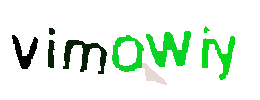
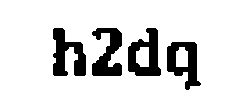
update algo and frame for przeklej

Changed region(s): [[0.028, 0.27, 0.924, 0.9], [0.784, 0.27, 0.812, 0.33]]

diff --git a/JDownloader 2.0/tools/Windows/kscaptcha/ocr.js b/JDownloader 2.0/tools/Windows/kscaptcha/ocr.js
@@ -2,116 +2,188 @@ var Tesseract = require('tesseract.js');
 var Jimp = require('jimp');
 var fs = require('fs');
 
+var what2Scan = process.argv[2] || "keep2share.cc"; //Start parameter
 var white = Jimp.rgbaToInt(255, 255, 255, 255);
-var colorBuffer = {};
-var bandColors = [];
-var borderColors = {};
-console.log("Running");
-getText('input.gif', function(content) {
-    console.log(content);
-    fs.writeFile('result.txt', content["text"], (err) => {  
-        if (err) throw err;
-		
-		fs.writeFile('log.txt', JSON.stringify(content), (err) => {  
-			process.exit();
-		});
+var black = Jimp.rgbaToInt(0, 0, 0, 255);
+
+console.log("Running ->", what2Scan);
+
+if (what2Scan == "keep2share.cc") {
+    getKeep2shareSText('input.gif', function (content) {
+        fs.writeFile('result.txt', content["text"], (err) => {
+            if (err) throw err;
+
+            fs.writeFile('log.txt', JSON.stringify(content), (err) => {
+                process.exit();
+            });
+        });
+
+    })
+} else  if (what2Scan == "przeklej.org") {
+    getPrzeklejText('xFQIX.jpg', function (content) {
+        fs.writeFile('result.txt', content["text"], (err) => {
+            if (err) throw err;
+
+            fs.writeFile('log.txt', JSON.stringify(content), (err) => {
+                process.exit();
+            });
+        });
+
+    })
+} else {
+    console.log("No function found for: ", what2Scan);
+}
+
+function getPrzeklejText(file, callback) {
+    Jimp.read(file).then(image => {
+        image.scan(0, 0, image.bitmap.width, image.bitmap.height, function (x, y, idx) {
+            var color = image.getPixelColor(x, y);
+            var rgbColor = Jimp.intToRGBA(color);
+            if(rgbColor["r"]>50) {
+                image.setPixelColor(white, x, y);
+            }
+            if(x==0||y==0||x==image.bitmap.width-1||y==image.bitmap.height-1) {
+                image.setPixelColor(white, x, y);
+            }
+            if (x == image.bitmap.width - 1 && y == image.bitmap.height - 1) { //Scan1 finished
+                image.resize( 250, Jimp.AUTO );
+                changeAllPresentPixelsToBlack(image, function (image) {
+                    removeSpikes(image, 3, function (image) {
+                        fillGaps(image, 1, function (image) {
+                            image.write('temp.jpg', function () {
+                                fs.readFile('temp.jpg', function (err, data) {
+                                    // Tesseract.recognize(data).then(function (result) {
+                                    //     var text = result["text"].replace(/\W/g, '');
+                                    //     var confidence = result["confidence"];
+                                    //     callback({ host : what2Scan, text: text, confidence: confidence });
+                                    // })
+                                });
+                            });
+                        });
+                    });
+                });
+            }
+        });
+    }).catch(err => {
+        console.log(err);
+        // Handle an exception.
     });
-    
-})
+} 
 
-function getText(file, callback) {
-    Jimp.read(file)
-        .then(image => {
-            image.scan(0, 0, image.bitmap.width, image.bitmap.height, function (x, y, idx) {
-                var index = image.getPixelColor(x, y);
-                if (!colorBuffer[index]) {
-                    colorBuffer[index] = 1;
-                } else {
-                    colorBuffer[index]++;
+function getKeep2shareSText(file, callback) {
+    var colorBuffer = {};
+    var bandColors = [];
+    var borderColors = {};
+    Jimp.read(file).then(image => {
+        image.scan(0, 0, image.bitmap.width, image.bitmap.height, function (x, y, idx) {
+            var index = image.getPixelColor(x, y);
+            if (!colorBuffer[index]) {
+                colorBuffer[index] = 1;
+            } else {
+                colorBuffer[index]++;
+            }
+
+            //Take all border colors to remove them from the image (Removing lines)
+            if (index != white && (y < 2 || image.bitmap.height - y < 10)) {
+                borderColors[index] = true;
+            }
+
+            if (x == image.bitmap.width - 1 && y == image.bitmap.height - 1) { //Scan1 finished
+                for (var k in borderColors) {
+                    bandColors.push({ "color": k });
                 }
-
-                //Take all border colors to remove them from the image (Removing lines)
-                if (index != white && (y < 2 || image.bitmap.height - y < 10)) {
-                    borderColors[index] = true;
-                }
-
-                if (x == image.bitmap.width - 1 && y == image.bitmap.height - 1) { //Scan1 finished
-                    for (var k in borderColors) {
-                        bandColors.push({ "color": k });
+                for (var i in colorBuffer) {
+                    if (colorBuffer[i] < 100) { //Remove all colors witch are not very present in the img (<100 pixels in the image)
+                        bandColors.push({ "color": i });
                     }
-                    for (var i in colorBuffer) {
-                        if (colorBuffer[i] < 100) { //Remove all colors witch are not very present in the img (<100 pixels in the image)
-                            bandColors.push({ "color": i });
+                }
+
+                image.scan(0, 0, image.bitmap.width, image.bitmap.height, function (x, y, idx) {
+                    var color = image.getPixelColor(x, y);
+                    var rgbColor = Jimp.intToRGBA(color);
+                    if(rgbColor["r"] > 200 && rgbColor["g"] > 200 && rgbColor["b"] > 200) { //Very light gray ->remove
+                        image.setPixelColor(white, x, y);
+                    }
+
+                    for (var k in bandColors) {
+                        var clEntry = bandColors[k];
+
+                        if (color == clEntry["color"]) {
+                            image.setPixelColor(white, x, y);
+                            break;
                         }
                     }
 
-                    image.scan(0, 0, image.bitmap.width, image.bitmap.height, function (x, y, idx) {
-                        var color = image.getPixelColor(x, y);
-                        for (var k in bandColors) {
-                            var clEntry = bandColors[k];
-
-                            if (color == clEntry["color"]) {
-                                image.setPixelColor(white, x, y);
-                            }
-                        }
-
-                        if (x == image.bitmap.width - 1 && y == image.bitmap.height - 1) {
-                            fillGaps(image, function (image) {
-                                fillGaps(image, function (image) {
-                                    fillGaps(image, function (image) {
-                                        resharp(image, function (image) {
-                                            resharp(image, function (image) {
-                                                image.write('temp.jpg', function () {
-                                                    fs.readFile('temp.jpg', function (err, data) {
-                                                        Tesseract.recognize(data).then(function (result) {
-                                                            var text = result["text"].replace(/\W/g, '');
-                                                            var confidence = result["confidence"];
-                                                            callback({text : text, confidence : confidence});
-                                                        })
-                                                    });
-                                                });
-                                            });
+                    if (x == image.bitmap.width - 1 && y == image.bitmap.height - 1) {
+                        fillGaps(image, 3, function (image) {
+                            thinOut(image, 2, function (image) {
+                                changeAllPresentPixelsToBlack(image, function (image) {
+                                    image.write('temp.jpg', function () {
+                                        fs.readFile('temp.jpg', function (err, data) {
+                                            Tesseract.recognize(data).then(function (result) {
+                                                var text = result["text"].replace(/\W/g, '');
+                                                var confidence = result["confidence"];
+                                                callback({ host : what2Scan, text: text, confidence: confidence });
+                                            })
                                         });
                                     });
                                 });
-                            })
-                        }
-                    });
-                }
-            });
-
-        })
-        .catch(err => {
-            console.log(err);
-            // Handle an exception.
+                            });    
+                        })
+                    }
+                });
+            }
         });
-
-    function fillGaps(image, callback) {
-        new Jimp(image.bitmap.width, image.bitmap.height, white, (err, newImage) => {
-            image.scan(0, 0, image.bitmap.width, image.bitmap.height, function (x, y, idx) {
-                var color = image.getPixelColor(x, y);
-                if (color != white) {
-                    newImage.setPixelColor(color, x - 1, y - 1);
-                    newImage.setPixelColor(color, x, y - 1);
-                    newImage.setPixelColor(color, x, y - 1);
-
-                    newImage.setPixelColor(color, x - 1, y + 1);
-                    newImage.setPixelColor(color, x, y + 1);
-                    newImage.setPixelColor(color, x + 1, y + 1);
-
-                    newImage.setPixelColor(color, x, y);
-                    newImage.setPixelColor(color, x - 1, y);
-                    newImage.setPixelColor(color, x + 1, y);
-                }
-                if (x == image.bitmap.width - 1 && y == image.bitmap.height - 1) {
-                    callback(newImage);
-                }
-            })
-        });
-    }
+    }).catch(err => {
+        console.log(err);
+        // Handle an exception.
+    });
 }
 
-function resharp(image, callback) {
+function changeAllPresentPixelsToBlack(image, callback) {
+    image.scan(0, 0, image.bitmap.width, image.bitmap.height, function (x, y, idx) {
+        var color = image.getPixelColor(x, y);
+        if(color != white) {
+            image.setPixelColor(black, x, y);
+        }
+        
+        if (x == image.bitmap.width - 1 && y == image.bitmap.height - 1) {
+            callback(image);
+        }
+    });
+}
+
+function fillGaps(image, iterations, callback) {
+    iterations--;
+    new Jimp(image.bitmap.width, image.bitmap.height, white, (err, newImage) => {
+        image.scan(0, 0, image.bitmap.width, image.bitmap.height, function (x, y, idx) {
+            var color = image.getPixelColor(x, y);
+            if (color != white) {
+                newImage.setPixelColor(color, x - 1, y - 1);
+                newImage.setPixelColor(color, x, y - 1);
+                newImage.setPixelColor(color, x, y - 1);
+
+                newImage.setPixelColor(color, x - 1, y + 1);
+                newImage.setPixelColor(color, x, y + 1);
+                newImage.setPixelColor(color, x + 1, y + 1);
+
+                newImage.setPixelColor(color, x, y);
+                newImage.setPixelColor(color, x - 1, y);
+                newImage.setPixelColor(color, x + 1, y);
+            }
+            if (x == image.bitmap.width - 1 && y == image.bitmap.height - 1) {
+                if(iterations<=0) {
+                    callback(newImage);
+                } else {
+                    fillGaps(newImage, iterations, callback);
+                }
+            }
+        })
+    });
+}
+
+function thinOut(image, iterations, callback) {
+    iterations--;
     new Jimp(image.bitmap.width, image.bitmap.height, white, (err, newImage) => {
         image.scan(0, 0, image.bitmap.width, image.bitmap.height, function (x, y, idx) {
             var color = image.getPixelColor(x, y);
@@ -134,8 +206,73 @@ function resharp(image, callback) {
 
             if (x == image.bitmap.width - 1 && y == image.bitmap.height - 1) {
                 callback(newImage);
+                if(iterations<=0) {
+                    callback(newImage);
+                } else {
+                    thinOut(newImage, iterations, callback);
+                }
             }
         })
     });
 }
 
+function removeSpikes(image, iterations, callback) {
+    iterations--;
+    new Jimp(image.bitmap.width, image.bitmap.height, white, (err, newImage) => {
+        image.scan(0, 0, image.bitmap.width, image.bitmap.height, function (x, y, idx) {
+            var color = image.getPixelColor(x, y);
+            if (color != white) {
+                var l = image.getPixelColor(x - 1, y);
+                var r = image.getPixelColor(x + 1, y);
+                var t = image.getPixelColor(x, y + 1);
+                var b = image.getPixelColor(x, y - 1);
+
+                var lb = image.getPixelColor(x - 1, y - 1);
+                var lt = image.getPixelColor(x - 1, y + 1);
+                var rt = image.getPixelColor(x + 1, y + 1);
+                var rb = image.getPixelColor(x + 1, y - 1);
+
+                var whiteNCount = 0;
+                if (l == white) {
+                    whiteNCount++;
+                } 
+                if(r == white) {
+                    whiteNCount++;
+                } 
+                if(t == white) {
+                    whiteNCount++;
+                } 
+                if(b == white) {
+                    whiteNCount++;
+                } 
+                if(lb == white) {
+                    whiteNCount++;
+                } 
+                if(lt == white) {
+                    whiteNCount++;
+                } 
+                if(rt == white) {
+                    whiteNCount++;
+                } 
+                if(rb == white) {
+                    whiteNCount++;
+                }
+
+                if(whiteNCount>=4) {
+                    newImage.setPixelColor(white, x, y);
+                } else {
+                    newImage.setPixelColor(color, x, y);
+                }
+            }
+
+            if (x == image.bitmap.width - 1 && y == image.bitmap.height - 1) {
+                callback(newImage);
+                if(iterations<=0) {
+                    callback(newImage);
+                } else {
+                    thinOut(newImage, iterations, callback);
+                }
+            }
+        })
+    });
+}
